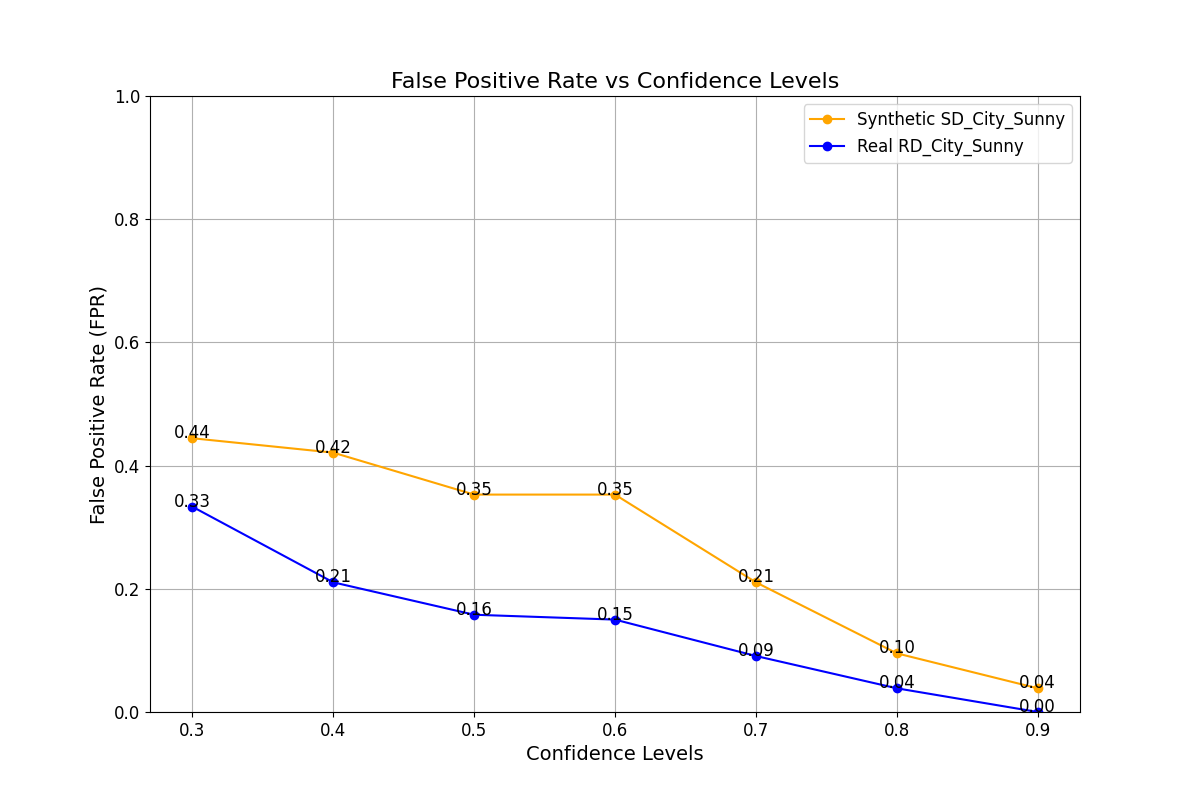
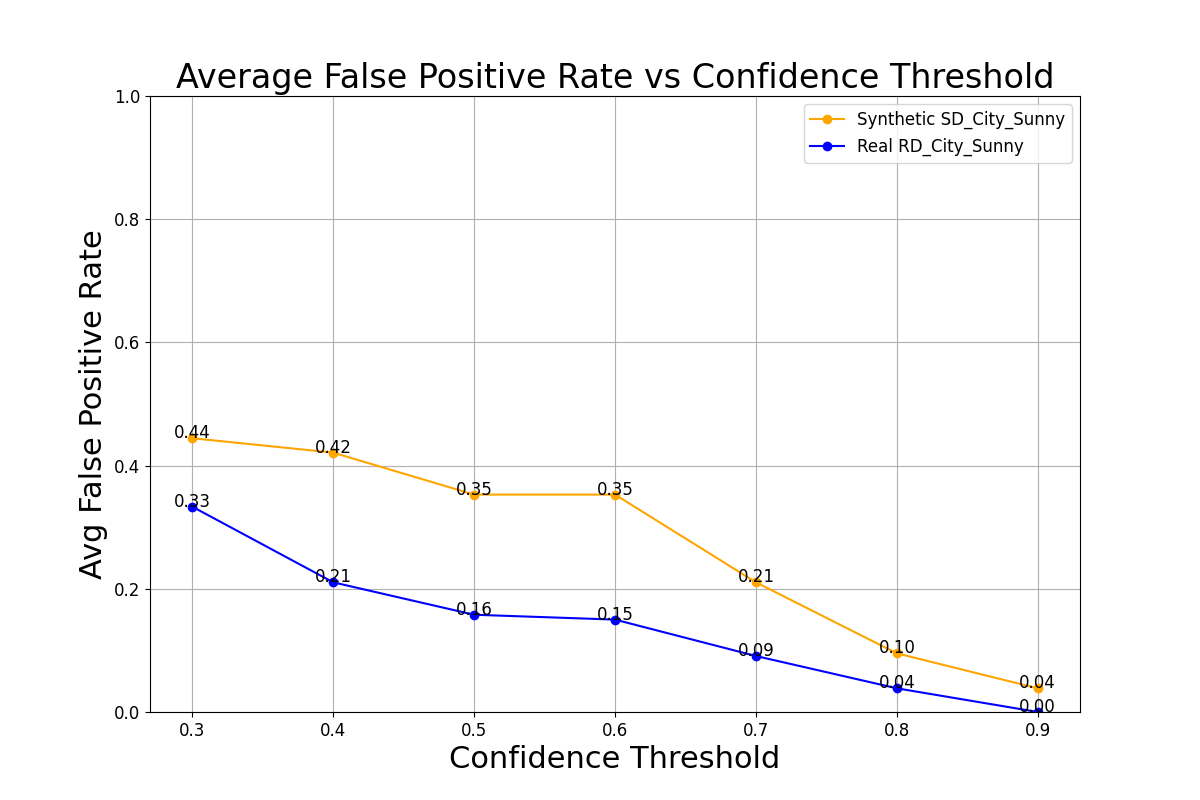
New FPR plots

Changed region(s): [[0.1542, 0.0625, 0.8942, 0.125], [0.0617, 0.2812, 0.0925, 0.7188], [0.37, 0.9062, 0.6475, 0.9688]]

diff --git a/FPR_plot.py b/FPR_plot.py
@@ -135,8 +135,8 @@ def plot_fpr_vs_confidence(synth_csv_files, real_csv_files, confidence_levels, o
 
 
 if __name__ == "__main__":
-    real_csv_files = ["combined_csv\Rainy_residential\RD_Rain_combined.csv"]
-    synth_csv_files = ["combined_csv\Rainy_residential\SD_Rain_combined.csv"]
+    real_csv_files = ["combined_csv/Night_Highway/RD_Night_Highway.csv"]
+    synth_csv_files = ["combined_csv/Night_Highway/SD_Night_Highway.csv"]
     confidence_levels = np.arange(0.3, 1.0, 0.1)
     output_csv = "fpr_results_combined.csv"
 
